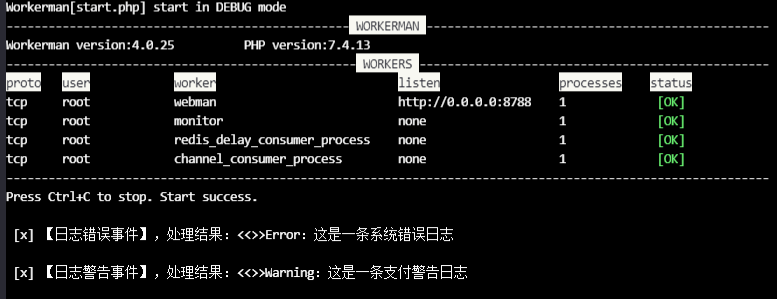
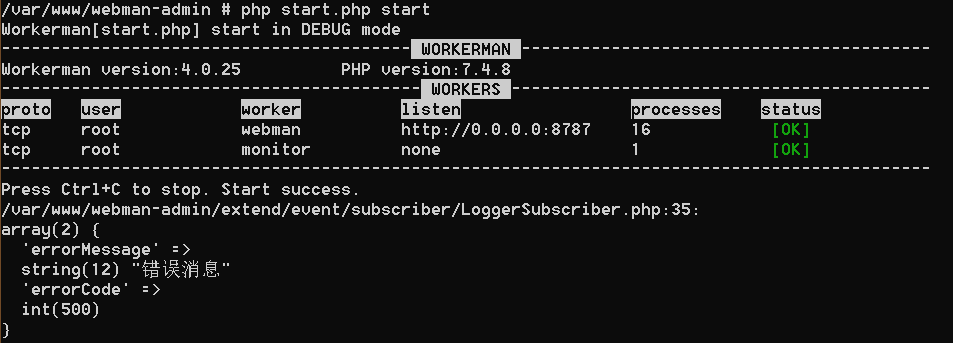
触发 `LogErrorWriteEvent` 事件

Changed region(s): [[0.0, 0.0, 0.9884, 1.0], [0.7104, 0.3913, 0.7413, 0.4214], [0.6486, 0.4214, 0.6795, 0.4515]]

diff --git a/README.md b/README.md
@@ -46,28 +46,30 @@ return [
 
 ### 监听事件
 
-事件类 `LogErrorEvent.php`
+事件类 `LogErrorWriteEvent.php`
 
 ```php
-namespace extend\event;
+declare(strict_types=1);
 
+namespace extend\event;
 
 use Symfony\Contracts\EventDispatcher\Event;
 
-class LogErrorEvent extends Event
+class LogErrorWriteEvent extends Event
 {
-    const NAME = 'log.error';  // 事件名，事件的唯一标识
+    const NAME = 'log.error.write';  // 事件名，事件的唯一标识
 
-    protected $message;
+    /** @var array */
+    public array $log;
 
-    public function __construct($message)
+    public function __construct(array $log)
     {
-        $this->message = $message;
+        $this->log = $log;
     }
 
     public function handle()
     {
-        return '<<>>Error：'.$this->message."\n";
+        return $this->log;
     }
 }
 ```
@@ -77,7 +79,7 @@ class LogErrorEvent extends Event
 return [
     // 事件监听
     'listener'    => [
-        \extend\event\LogErrorEvent::NAME  => \extend\event\LogErrorEvent::class,
+        \extend\event\LogErrorWriteEvent::NAME  => \extend\event\LogErrorWriteEvent::class,
     ],
 ];
 ```
@@ -87,28 +89,32 @@ return [
 订阅类 `LoggerSubscriber.php`
 
 ```php
-use extend\event\LogErrorEvent;
-use extend\event\LogWarningEvent;
+namespace extend\event\subscriber;
+
+use extend\event\LogErrorWriteEvent;
 use Symfony\Component\EventDispatcher\EventSubscriberInterface;
 
 class LoggerSubscriber implements EventSubscriberInterface
 {
+    /**
+     * @desc: 方法描述
+     * @return array|string[]
+     */
     public static function getSubscribedEvents()
     {
         return [
-            LogErrorEvent::NAME => 'onLogErrorHandle',
-            LogWarningEvent::NAME => 'onLogWarningHandle',
+            LogErrorWriteEvent::NAME => 'onLogErrorWrite',
         ];
     }
 
-    public function onLogErrorHandle(LogErrorEvent $event)
+    /**
+     * @desc: 触发事件
+     * @param LogErrorWriteEvent $event
+     */
+    public function onLogErrorWrite(LogErrorWriteEvent $event)
     {
-        echo ' [x] 【日志错误事件】，处理结果：' . $event->handle(), "\n";
-    }
-
-    public function onLogWarningHandle(LogWarningEvent $event)
-    {
-        echo ' [x] 【日志警告事件】，处理结果：' . $event->handle(), "\n";
+        // 一些具体的业务逻辑
+        var_dump($event->handle());
     }
 }
 ```
@@ -125,12 +131,14 @@ return [
 
 ### 事件触发器
 
-触发 `LogErrorEvent` 事件。
+触发 `LogErrorWriteEvent` 事件。
 
 ```php
-EventManager::trigger(new LogErrorEvent('这是一条系统错误日志'),LogErrorEvent::NAME);
-
-EventManager::trigger(new LogWarningEvent('这是一条支付警告日志'),LogWarningEvent::NAME);
+$error = [
+    'errorMessage' => '错误消息',
+    'errorCode' => 500
+];
+EventManager::trigger(new LogErrorWriteEvent($error),LogErrorWriteEvent::NAME);
 ```
 
 执行结果
